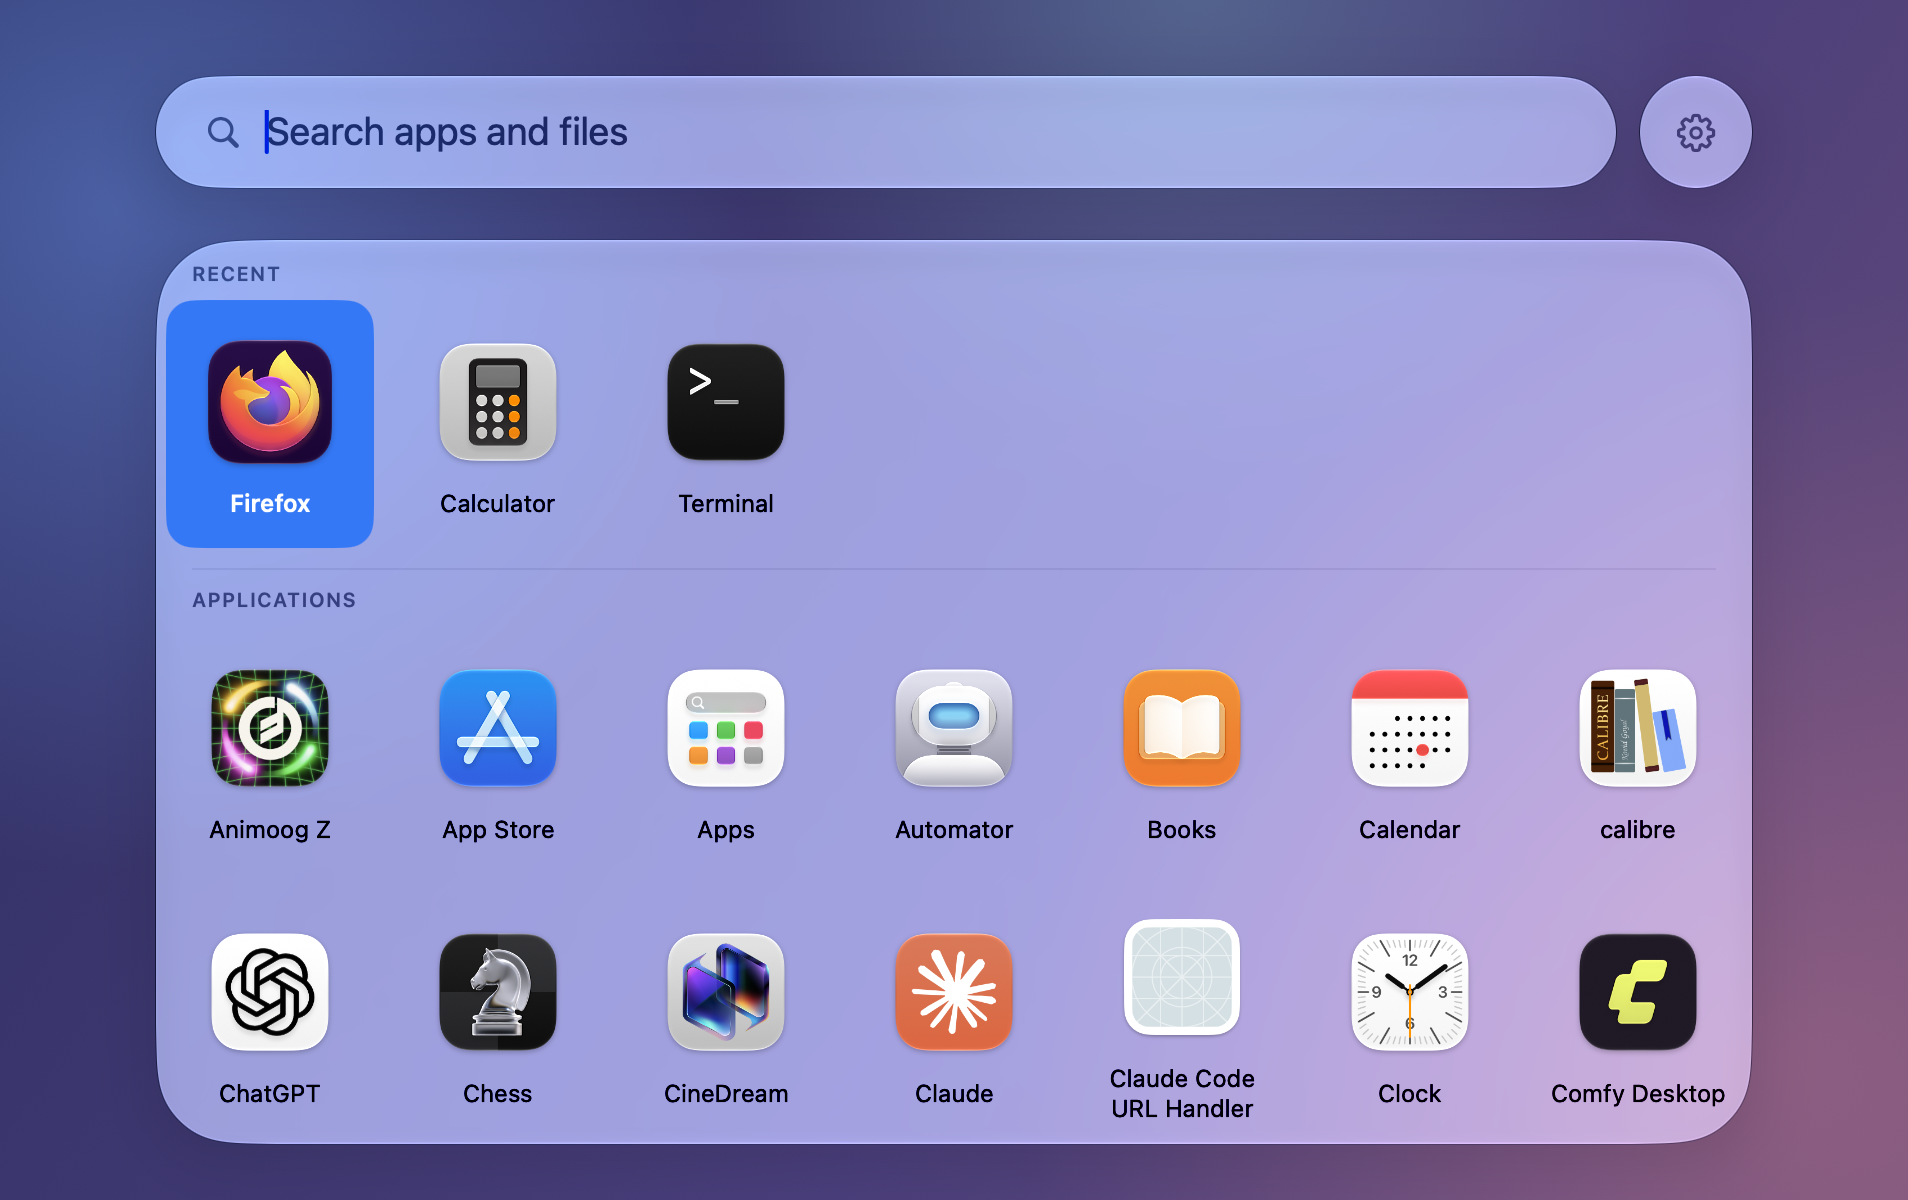
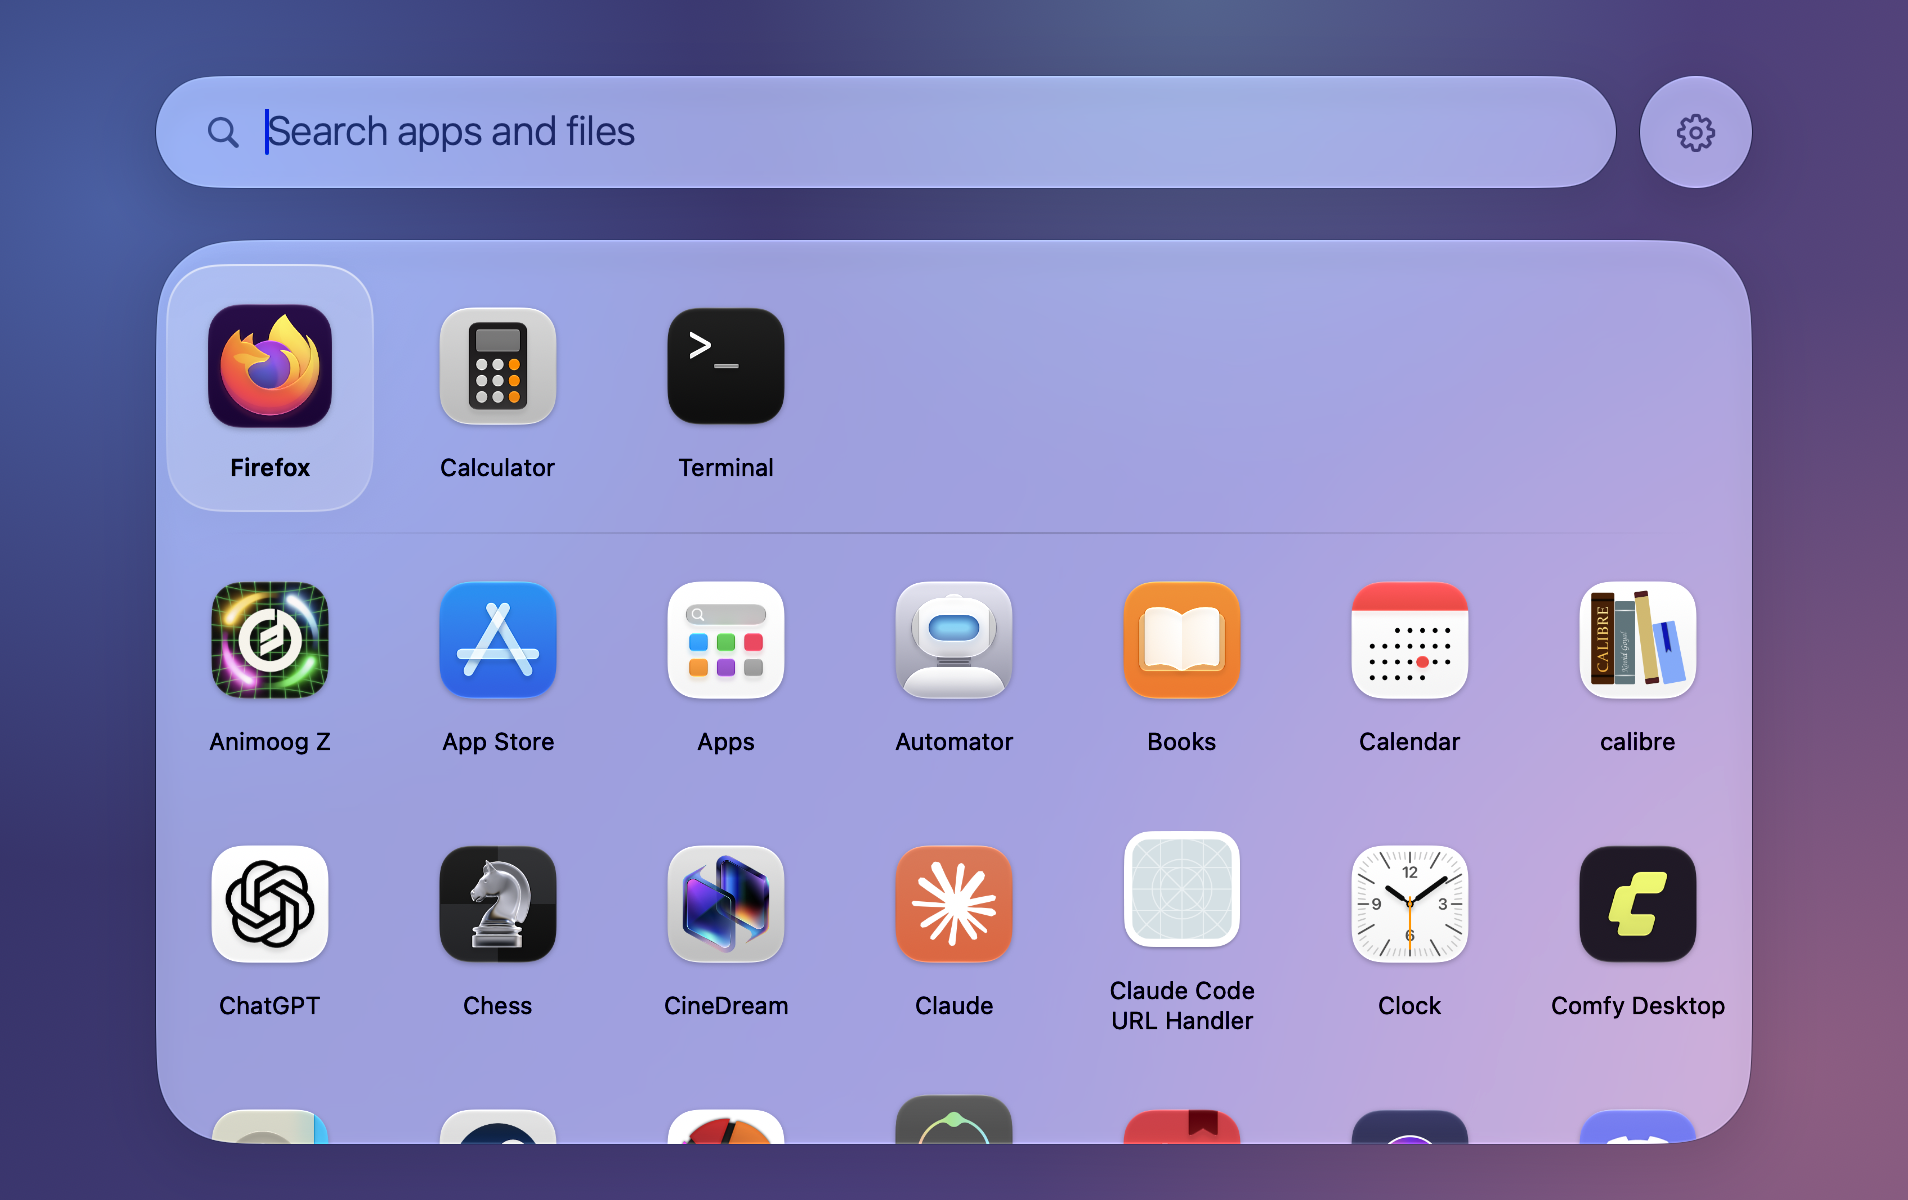
feat: Pure Glass — the selection is a lens, the glass carries the design
- Selection: a lighter pane of the same glass with a specular edge and a
  soft lift, writing left in its own colour. Reduce Transparency keeps the
  solid accent block.
- Every slab gets a specular rim over the hairline: bright along the top,
  catching again at the bottom lip.
- The two grids lose their visible titles (kept for VoiceOver); sections
  are divided by a rule faded at both ends.
- Lighter field type. README screenshots regenerated.

diff --git a/Sources/spotvibe/RootView.swift b/Sources/spotvibe/RootView.swift
@@ -237,9 +237,24 @@ struct RootView: View {
     /// so it inverts with the appearance, and `strokeBorder` so the line sits inside the
     /// shape instead of straddling it. An overlay composites above the glass — it does not
     /// filter the subtree, so the backdrop sampling underneath is untouched.
+    ///
+    /// Over it, the specular edge: brightest along the top where the light is, fading down
+    /// the sides and catching again at the bottom lip. That line is most of what makes a
+    /// slab read as a thick piece of glass rather than a frosted card.
     private func rim(_ shape: RoundedRectangle) -> some View {
         shape.strokeBorder(.primary.opacity(0.10), lineWidth: 0.5)
+            .overlay {
+                shape.strokeBorder(Self.specular, lineWidth: 1)
+                    .opacity(search.reduceTransparency ? 0 : 1)
+            }
     }
+
+    private static let specular = LinearGradient(
+        stops: [.init(color: .white.opacity(0.60), location: 0),
+                .init(color: .white.opacity(0.08), location: 0.35),
+                .init(color: .white.opacity(0.06), location: 0.8),
+                .init(color: .white.opacity(0.28), location: 1)],
+        startPoint: .top, endPoint: .bottom)
 
     /// The one way a slab is dressed, in the one order that works: clipped BEFORE the glass
     /// (after it, the clip would rasterise the glass layer offscreen and cost the backdrop
@@ -413,7 +428,7 @@ struct RootView: View {
                 .foregroundStyle(.secondary)
             TextField(loc("Search apps and files"), text: query)
                 .textFieldStyle(.plain)
-                .font(.system(size: 19, weight: .regular))
+                .font(.system(size: 20, weight: .light))
                 .foregroundStyle(.primary)
                 .focused(_focused.projectedValue)
                 .onSubmit(activate)
@@ -511,15 +526,20 @@ struct RootView: View {
         return ScrollViewReader { proxy in
             ScrollView {
                 VStack(alignment: .leading, spacing: 0) {
+                    // No visible titles over the two grids: a shelf of three over a wall of
+                    // apps says what each is, and the luminous rule between them does the
+                    // dividing. The names stay for VoiceOver.
                     if !recentRows.isEmpty {
-                        header(loc("Recent"))
                         grid(recentRows)
+                            .accessibilityElement(children: .contain)
+                            .accessibilityLabel(loc("Recent"))
                     }
                     if !appRows.isEmpty {
                         if !recentRows.isEmpty { separator }
-                        header(loc("Applications"))
                         grid(appRows)
                             .padding(.bottom, 10)
+                            .accessibilityElement(children: .contain)
+                            .accessibilityLabel(loc("Applications"))
                     }
                     if !listRows.isEmpty {
                         if !recentRows.isEmpty || !appRows.isEmpty { separator }
@@ -534,7 +554,7 @@ struct RootView: View {
                         .padding(.bottom, 8)
                     }
                 }
-                .padding(.top, 4)
+                .padding(.top, Self.topPad)
             }
             .scrollIndicators(.never)
             .scrollBounceBehavior(.basedOnSize)
@@ -547,18 +567,18 @@ struct RootView: View {
 
     /// Snapped to whole rows and whole grid lines, so neither section ends half-drawn.
     private var resultsHeight: CGFloat {
-        var height: CGFloat = 4
+        var height = Self.topPad
         // Every section but the first is preceded by a separator, so this tracks whether
         // one has already been drawn.
         var following = false
         if search.recentCount > 0 {
-            height += Self.headerHeight + Self.cellHeight - Self.cellGap // always one row
+            height += Self.cellHeight - Self.cellGap // always one row
             following = true
         }
         if appGridCount > 0 {
             if following { height += Self.separatorBlock }
             let lines = (appGridCount + Self.columns - 1) / Self.columns
-            height += Self.headerHeight + CGFloat(min(lines, 4)) * Self.cellHeight + 10 - Self.cellGap
+            height += CGFloat(min(lines, 4)) * Self.cellHeight + 10 - Self.cellGap
             following = true
         }
         if listCount > 0 {
@@ -570,14 +590,18 @@ struct RootView: View {
     }
 
     private static let headerHeight: CGFloat = 26
+    private static let topPad: CGFloat = 12
     /// The rule plus the padding around it, which `resultsHeight` has to account for.
     private static let separatorBlock: CGFloat = 13
 
-    /// A hairline between sections, not a hard rule: the panel is one surface.
+    /// A hairline between sections, not a hard rule: the panel is one surface. Faded at
+    /// both ends, so it reads as light caught inside the glass rather than a line on it.
     private var separator: some View {
-        Divider()
-            .opacity(0.6)
-            .padding(.horizontal, 18)
+        Rectangle()
+            .fill(LinearGradient(colors: [.clear, .primary.opacity(0.22), .clear],
+                                 startPoint: .leading, endPoint: .trailing))
+            .frame(height: 1)
+            .padding(.horizontal, 28)
             .padding(.top, 10)
             .padding(.bottom, 2)
     }
@@ -599,15 +623,32 @@ struct RootView: View {
         launching && !selected ? 0.3 : 1
     }
 
-    /// One highlight rect shared through the namespace, so moving the selection slides it.
+    /// The selection is a lens: a lighter, brighter pane of the same glass, lifted a
+    /// little off the slab, with the writing on it left as it was. A block of accent colour
+    /// sat ON the glass like a sticker. Reduce Transparency keeps the solid accent — with
+    /// the glass gone there is nothing for a lens to be made of.
+    private var lens: Bool { !search.reduceTransparency }
+
+    /// One highlight shared through the namespace, so moving the selection slides it.
     @ViewBuilder
     private func highlight(_ selected: Bool, cornerRadius: CGFloat) -> some View {
         if selected {
-            RoundedRectangle(cornerRadius: cornerRadius, style: .continuous)
-                .fill(accent)
-                .matchedGeometryEffect(id: "selection", in: _ns.wrappedValue)
+            let shape = RoundedRectangle(cornerRadius: cornerRadius, style: .continuous)
+            Group {
+                if lens {
+                    shape.fill(.white.opacity(0.22))
+                        .overlay { shape.strokeBorder(Self.specular, lineWidth: 1) }
+                        .shadow(color: .black.opacity(0.14), radius: 10, y: 5)
+                } else {
+                    shape.fill(accent)
+                }
+            }
+            .matchedGeometryEffect(id: "selection", in: _ns.wrappedValue)
         }
     }
+
+    /// White on the accent block; on the lens the writing keeps its own colour.
+    private func onHighlight(_ selected: Bool) -> Bool { selected && !lens }
 
     @ViewBuilder
     private func icon(_ icon: RowIcon, size: CGFloat, selected: Bool) -> some View {
@@ -619,11 +660,11 @@ struct RootView: View {
             Image(systemName: name)
                 .font(.system(size: size * 0.66))
                 .frame(width: size, height: size)
-                .foregroundStyle(selected ? AnyShapeStyle(.white) : AnyShapeStyle(accent))
+                .foregroundStyle(onHighlight(selected) ? AnyShapeStyle(.white) : AnyShapeStyle(accent))
         }
     }
 
-    // ponytail: the selection highlight is a plain tinted rect, NOT glass. Glass cannot
+    // ponytail: the selection lens is a translucent fill, NOT glass. Glass cannot
     // sample glass, so nesting a second glass layer inside the slab renders wrong.
     private func cell(model: RowModel) -> some View {
         let selected = model.id == search.selection
@@ -648,7 +689,7 @@ struct RootView: View {
                 .fixedSize(horizontal: false, vertical: true)
         }
         .frame(width: Self.cellWidth - 10, height: Self.cellHeight - Self.cellGap)
-        return selectable(content, model, selected: selected, cornerRadius: 14)
+        return selectable(content, model, selected: selected, cornerRadius: 26)
     }
 
     /// What a grid cell and a list row have in common once laid out: the colour that
@@ -657,7 +698,7 @@ struct RootView: View {
     private func selectable<V: View>(_ content: V, _ model: RowModel, selected: Bool,
                                      cornerRadius: CGFloat) -> some View {
         content
-            .foregroundStyle(selected ? AnyShapeStyle(.white) : AnyShapeStyle(.primary))
+            .foregroundStyle(onHighlight(selected) ? AnyShapeStyle(.white) : AnyShapeStyle(.primary))
             .background { highlight(selected, cornerRadius: cornerRadius) }
             .opacity(dimmed(selected))
             .animation(.easeOut(duration: 0.16), value: search.launching)
@@ -676,13 +717,14 @@ struct RootView: View {
                 // every hit in the list.
                 Text(model.subtitle ?? model.path.map { prettyPath($0) } ?? "")
                     .font(.system(size: 11)).lineLimit(1)
-                    .foregroundStyle(selected ? AnyShapeStyle(.white.opacity(0.75)) : AnyShapeStyle(.secondary))
+                    .foregroundStyle(onHighlight(selected) ? AnyShapeStyle(.white.opacity(0.75))
+                                                           : AnyShapeStyle(.secondary))
             }
             Spacer(minLength: 0)
         }
         .padding(.horizontal, 12)
         .frame(height: Self.rowHeight - 2)
-        return selectable(content, model, selected: selected, cornerRadius: 10)
+        return selectable(content, model, selected: selected, cornerRadius: 16)
     }
 
     // MARK: Actions
